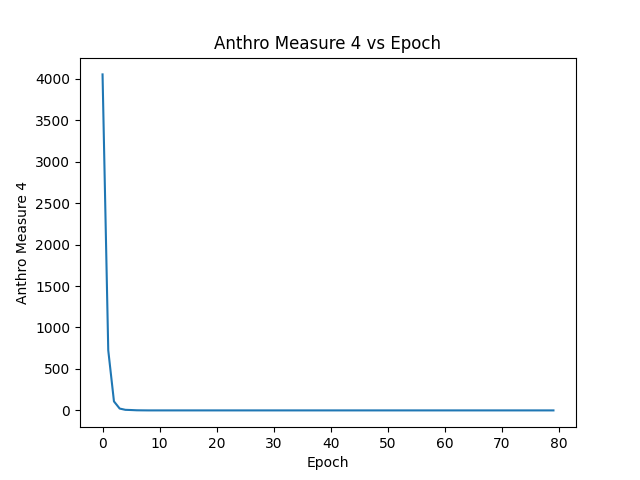
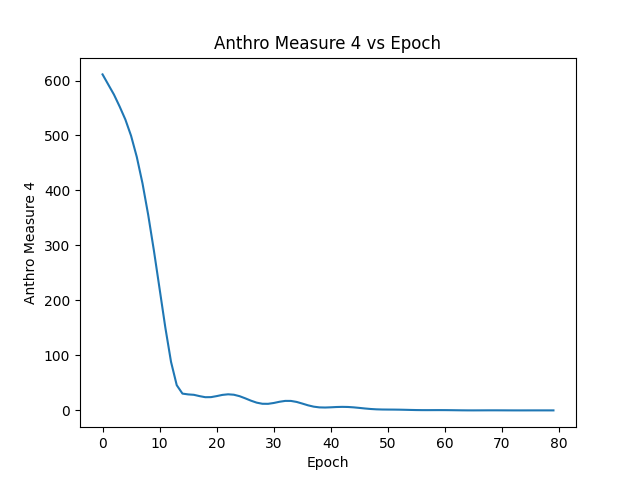
added previous branch plot

diff --git a/src/train_and_validate.py b/src/train_and_validate.py
@@ -104,23 +104,31 @@ class ModelTrainer:
         # Get data
         X_test = self.X_test
         anthro_test = self.anthro_test
+        anthro_error = []
         criterion = nn.MSELoss()
         with torch.no_grad():
             anthro_eval = model.forward(X_test) # X-test are features from test se, y_eval s predictions
             lossAnthro = criterion(anthro_eval, anthro_test) 
             totalLoss = lossAnthro #find loss or error
-            mse = [0]* 10
-            print(totalLoss)
             
-            # Calculate mean squared error
+            
             for i, data in enumerate(X_test):
-                # find the percentage error in all anthropometric data outputs
+                # find the difference from expected values
                 y_anthro = model.forward(data)
-                one_anthro = anthro_test[i]
-                for j in range(10):
-                    mse[j] += (one_anthro[j] - y_anthro[j])**2
-            for i in range(10):
-                mse[j] *= (1/10)
-            # plot the mse for each anthropometric data point
-        return mse
+                error = torch.abs(anthro_test[i] - y_anthro)
+                error_list = error.tolist()
+                anthro_error.append(error_list)
+
+        transposed_data = list(zip(*anthro_error))
+
+        averages = [sum(column) / len(column) for column in transposed_data]
+
+        # plot difference across each anthro measurement
+        anthroErrorPlot = plt.figure()
+        plt.plot(range(len(averages)), averages)
+        plt.ylabel("Difference")
+        plt.xlabel("Anthro Measurement Point")
+        plt.title("Difference Across Actual and Calculated Anthro Measurements")
+        anthroErrorPlot.savefig('../figures/validation.png')
+        return totalLoss
     
